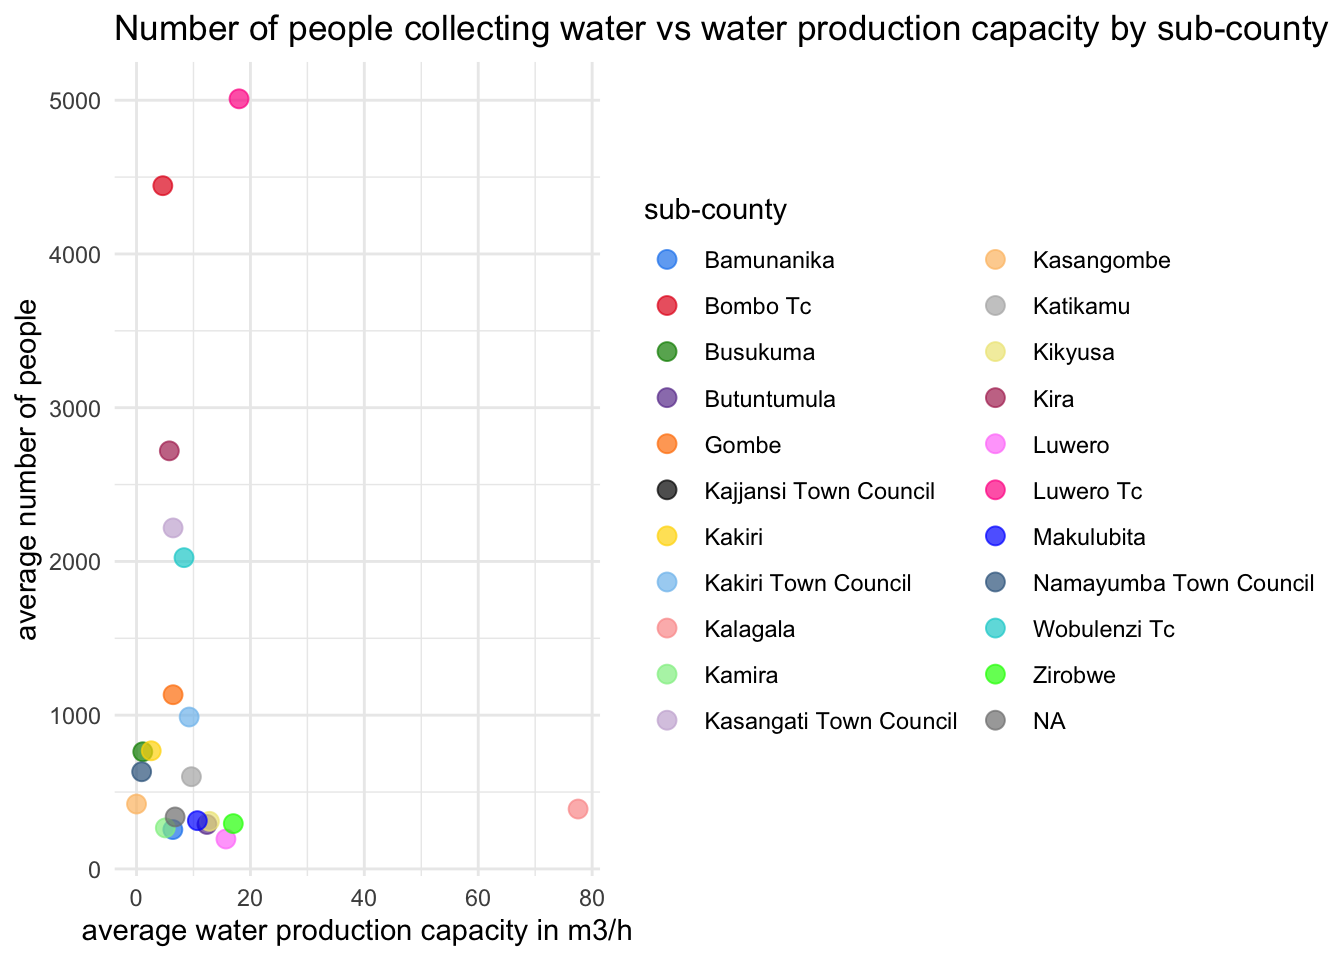
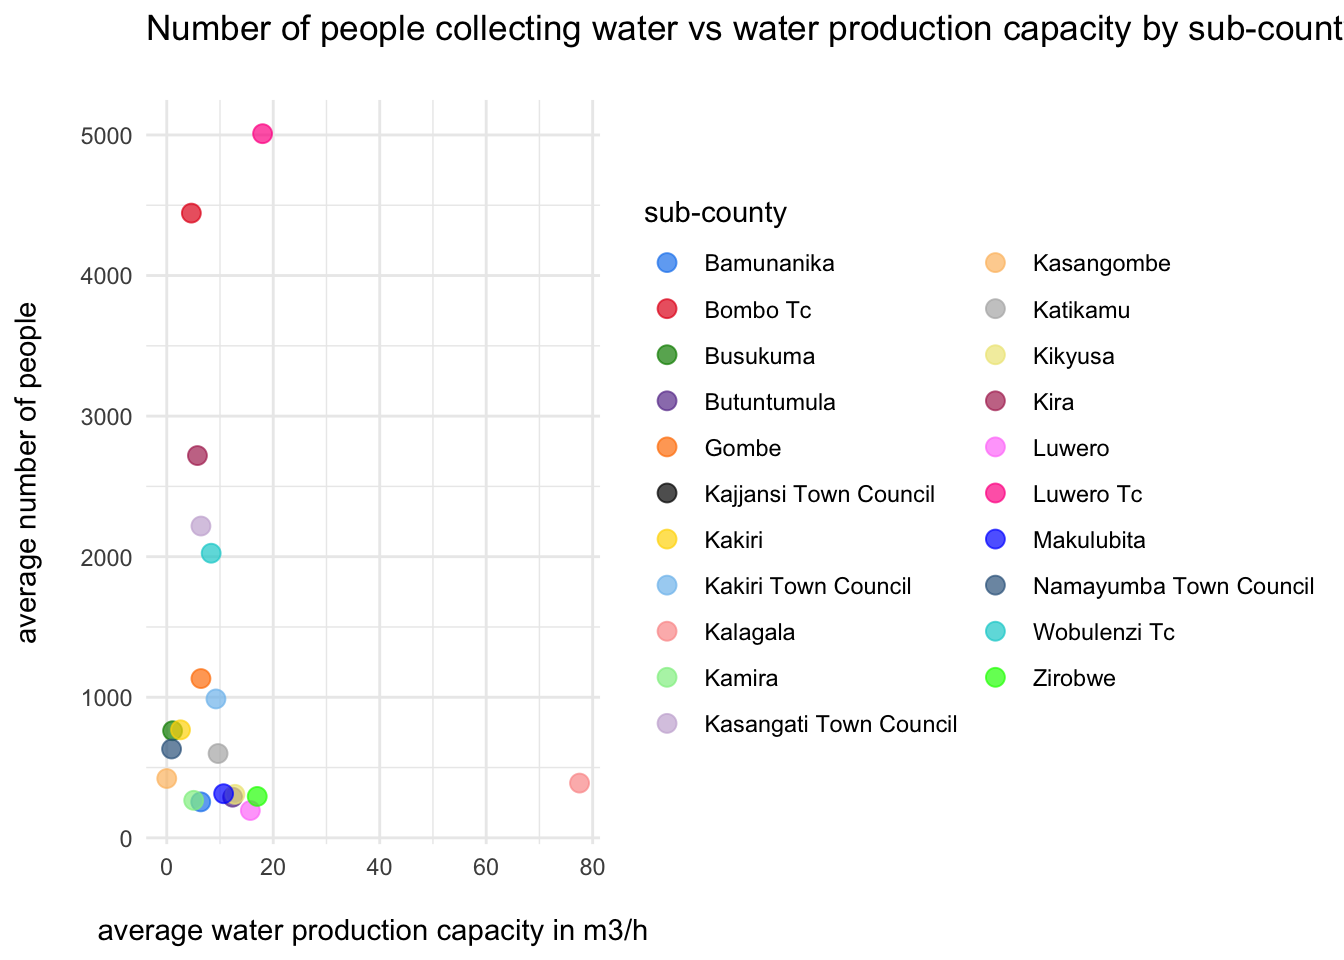
Ready for release

diff --git a/README.md b/README.md
@@ -6,7 +6,7 @@
 <!-- badges: start -->
 
 [![License: CC BY
-4.0](https://img.shields.io/badge/License-CC_BY_4.0-steelblue.svg)](https://creativecommons.org/licenses/by/4.0/)
+4.0](https://img.shields.io/badge/License-CC_BY_4.0-lightblue.svg)](https://creativecommons.org/licenses/by/4.0/)
 
 <!-- badges: end -->
 
@@ -57,7 +57,7 @@ Uganda. The package provides access to one dataset.
 library(ugabore)
 ```
 
-The `ugabore` data set has 10 variables and 173 observations. For an
+The `ugabore` data set has 10 variables and 171 observations. For an
 overview of the variable names, see the following table.
 
 <table class="table table-striped" style="margin-left: auto; margin-right: auto;">
@@ -234,9 +234,9 @@ summary_data <- ugabore |>
 # Plot summarized data
 ggplot(summary_data, aes(x = mean_well_yield, y = mean_population_served, color = sub_county)) +
   geom_point(size = 3, alpha = 0.7) +
-  labs(title = "Number of people collecting water vs water production capacity by sub-county",
-       x = "average water production capacity in m3/h",
-       y = "average number of people",
+  labs(title = "Number of people collecting water vs water production capacity by sub-county\n",
+       x = "\naverage water production capacity in m3/h",
+       y = "average number of people\n",
        color = "sub-county") +
   scale_color_manual(values = custom_colors) +
   theme_minimal()
